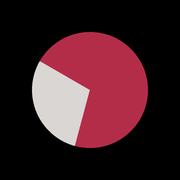
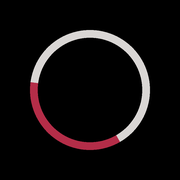
Make the dial a thin 24-hour ring rather than a filled 12-hour face
A full day round once means a sleep window crossing midnight is one
continuous arc, where on a 12-hour face it wrapped and read as two
separate pieces.

Oriented the way a day feels rather than the way a clock is built:
06:00 at the 9 o'clock position and 18:00 at the 3 o'clock position,
which puts midnight at the bottom and noon at the top, and lays the
night along the bottom of the ring.

The middle is empty and the band is about 6% of its own diameter -
thin enough that it reads as a ring rather than as a pie chart with a
hole punched in it. Still drawn as disc, then sector, then punch, so
the two arcs share one radial edge exactly; two stroked arcs leave a
hairline of background where they meet.

diff --git a/scripts/makeicon.py b/scripts/makeicon.py
@@ -1,12 +1,18 @@
 #!/usr/bin/env python3
 """
-Render the app icon: a clock face with the sleep window cut out of it.
+Render the app icon: a thin 24-hour ring with the sleep window drawn on it.
 
-The face carries no numbers and no hands. The only thing it says is which
-fraction of the twenty-four hours is spent asleep, drawn as a plain sector -
-bordeaux from 22:00 round to 06:30, the waking three and a half hours in a
-grey-white. Straight radial edges on purpose: a rounded wedge would read as a
-progress ring, and this is a proportion rather than a progress.
+A full day round once, not twelve hours round twice - so a sleep window that
+crosses midnight is one continuous arc instead of a shape that wraps and reads
+as two. The dial is oriented the way a day feels rather than the way a clock is
+built: midnight at the bottom, noon at the top, 06:00 at the left and 18:00 at
+the right, so the night sits along the bottom of the ring.
+
+No numbers, no hands, and the middle is empty. The only thing the ring says is
+which arc of the day is spent asleep, in bordeaux, with the waking hours in
+grey-white. The arc ends are square cuts across the ring rather than round caps,
+because it marks a boundary between two parts of a whole and not the end of a
+bar.
 
     python3 scripts/makeicon.py
 
@@ -19,7 +25,7 @@ import pathlib
 
 from PIL import Image, ImageDraw
 
-SS = 4  # supersample factor, for a clean edge on the circle and the two cuts
+SS = 4  # supersample factor, for a clean edge on a ring this thin
 CANVAS = 1024
 BACKGROUND = (0, 0, 0)
 
@@ -27,16 +33,18 @@ BACKGROUND = (0, 0, 0)
 # move this with it.
 SLEEP_HSL = (348, 60, 44)
 # The waking hours. Warm rather than neutral so it reads as the same family as
-# the bordeaux rather than as a hole in the disc.
+# the bordeaux rather than as a gap in the ring.
 WAKING = (0xD9, 0xD6, 0xD4)
 
-# The window the face describes, in hours on a 12-hour dial.
+# The window the ring describes, in hours on a 24-hour day.
 SLEEP_FROM = 22.0
 SLEEP_TO = 6.5
 
-# Diameter as a fraction of the canvas, matched to the bar width in the sibling
-# apps' icons so the family sits at one optical size on a home screen.
-RADIUS = 0.322
+# Outer edge and thickness, as fractions of the canvas. The ring is deliberately
+# a hairline against its own diameter - about 6% - which is what stops it
+# reading as a pie chart with a hole punched in it.
+OUTER = 0.332
+THICKNESS = 0.043
 
 
 def rgb(h, s, l):
@@ -45,26 +53,41 @@ def rgb(h, s, l):
 
 
 def angle(hour):
-    """Clock hour to drawing degrees: 0 deg is 3 o'clock and they run clockwise."""
-    return (hour % 12) * 30.0 - 90.0
+    """
+    Hour of the day to drawing degrees, where 0 is 3 o'clock and they run
+    clockwise.
+
+    Anchored so 06:00 lands at the 9 o'clock position and 18:00 at the 3
+    o'clock position, which puts midnight at the bottom and noon at the top.
+    """
+    return 180.0 + (hour - 6.0) * 15.0
+
+
+def _box(px, radius):
+    c = px / 2.0
+    r = radius * px
+    return [c - r, c - r, c + r, c + r]
 
 
 def draw(px):
     img = Image.new("RGB", (px, px), BACKGROUND)
     d = ImageDraw.Draw(img)
-    r = RADIUS * px
-    c = px / 2.0
-    box = [c - r, c - r, c + r, c + r]
 
-    # The whole face is waking; the sleep window is then cut into it. Drawn this
-    # way round because the two sectors have to share an edge exactly, and two
-    # pieslices meeting at an angle leave a hairline of background between them.
-    d.ellipse(box, fill=WAKING)
+    outer = _box(px, OUTER)
+    inner = _box(px, OUTER - THICKNESS)
+
     start = angle(SLEEP_FROM)
     end = angle(SLEEP_TO)
     if end <= start:
         end += 360.0
-    d.pieslice(box, start, end, fill=rgb(*SLEEP_HSL))
+
+    # Filled disc, sleep window cut into it, then the middle punched back out to
+    # the page. Done in that order because it gives both arcs one shared radial
+    # edge - drawing two arcs with a width instead leaves a hairline of
+    # background between them where they meet.
+    d.ellipse(outer, fill=WAKING)
+    d.pieslice(outer, start, end, fill=rgb(*SLEEP_HSL))
+    d.ellipse(inner, fill=BACKGROUND)
     return img
 
 
@@ -74,29 +97,33 @@ def png(px):
 
 
 def svg():
-    r = RADIUS * CANVAS
     c = CANVAS / 2.0
-
-    def point(deg):
-        rad = math.radians(deg)
-        return (c + r * math.cos(rad), c + r * math.sin(rad))
+    w = THICKNESS * CANVAS
+    # Stroked from the centre line of the ring, so the radius is the mid-radius.
+    r = (OUTER * CANVAS) - w / 2.0
 
     start = angle(SLEEP_FROM)
     end = angle(SLEEP_TO)
     if end <= start:
         end += 360.0
+
+    def point(deg):
+        rad = math.radians(deg)
+        return (c + r * math.cos(rad), c + r * math.sin(rad))
+
     x0, y0 = point(start)
     x1, y1 = point(end)
     large = 1 if (end - start) > 180 else 0
-    sleep = rgb(*SLEEP_HSL)
+    sleep = "#%02x%02x%02x" % rgb(*SLEEP_HSL)
+    waking = "#%02x%02x%02x" % WAKING
     return (
         f'<svg xmlns="http://www.w3.org/2000/svg" width="{CANVAS}" height="{CANVAS}" '
         f'viewBox="0 0 {CANVAS} {CANVAS}">\n'
         f'  <rect width="{CANVAS}" height="{CANVAS}" fill="#000000"/>\n'
-        f'  <circle cx="{c:g}" cy="{c:g}" r="{r:g}" fill="#{WAKING[0]:02x}{WAKING[1]:02x}{WAKING[2]:02x}"/>\n'
-        f'  <path d="M {c:g} {c:g} L {x0:.1f} {y0:.1f} '
-        f'A {r:g} {r:g} 0 {large} 1 {x1:.1f} {y1:.1f} Z" '
-        f'fill="#{sleep[0]:02x}{sleep[1]:02x}{sleep[2]:02x}"/>\n'
+        f'  <circle cx="{c:g}" cy="{c:g}" r="{r:g}" fill="none" '
+        f'stroke="{waking}" stroke-width="{w:g}"/>\n'
+        f'  <path d="M {x0:.1f} {y0:.1f} A {r:g} {r:g} 0 {large} 1 {x1:.1f} {y1:.1f}" '
+        f'fill="none" stroke="{sleep}" stroke-width="{w:g}" stroke-linecap="butt"/>\n'
         f"</svg>\n"
     )
 

diff --git a/README.md b/README.md
@@ -70,10 +70,16 @@ the point furthest from when anyone sleeps, so a bedtime drifting from 21:00 to
 
 ## The icon
 
-A clock face with no numbers and no hands. The only thing it says is which
-fraction of the day is spent asleep: bordeaux from 22:00 round to 06:30, the
-waking three and a half hours in grey-white, with straight radial edges because
-it is a proportion and not a progress ring.
+A thin ring carrying one full day, not twelve hours round twice — so a sleep
+window that crosses midnight is a single continuous arc instead of a shape that
+wraps and reads as two. It is oriented the way a day feels rather than the way a
+clock is built: midnight at the bottom, noon at the top, 06:00 at the left and
+18:00 at the right, which puts the night along the bottom of the ring.
+
+No numbers, no hands, empty in the middle. Bordeaux for the sleep window,
+grey-white for the waking hours, and square cuts across the ring where they meet
+rather than round caps — it is a boundary between two parts of a whole, not the
+end of a bar.
 
 ```bash
 python3 scripts/makeicon.py
